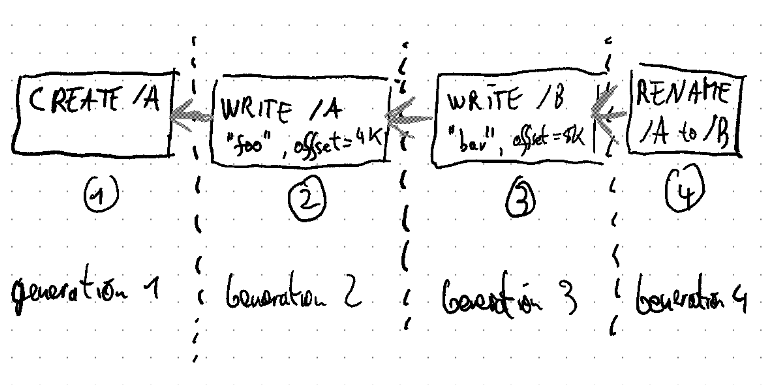
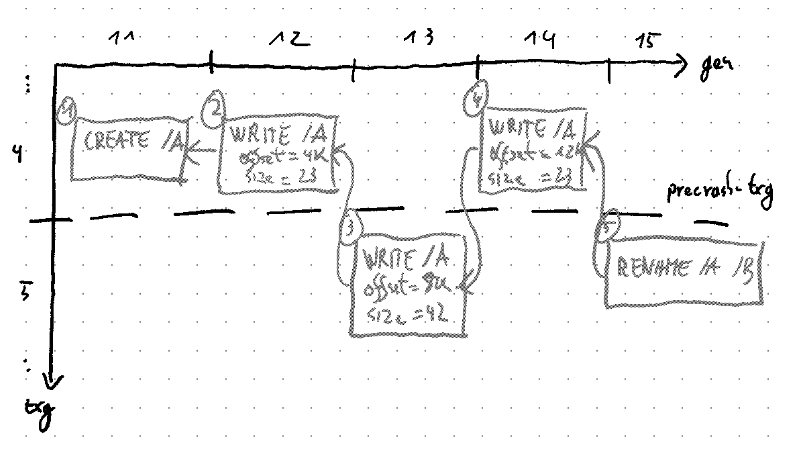
WIP

diff --git a/thesis.tex b/thesis.tex
@@ -29,6 +29,8 @@
 
 \usepackage{listings}
 
+\usepackage{float} % for the [H] option on figures
+
 % for core allocation pseudo-code mostly...
 \usepackage{amsmath}
 \usepackage{algorithmicx}
@@ -1104,201 +1106,128 @@ Updates to VDEV labels continue to be made using block device IO (\lstinline{zio
     }
 \end{figure}
 
+\clearpage
 \section{PRB/HDL}
-In this section we describe the PRB data structure which is at the heart of the ZIL-PMEM design.
-PRB implements a generic logical write-ahead log facility that uses PMEM for persistence.
-A single PRB instance supports multiple logs with independent lifecycles.
-Each log is represented by a HDL object that provides methods for writing and replaying log entries.
-Log entries are opaque to PRB --- the only ZFS-specific metadata is the transaction group (txg) in which the log entry's effect will be synced.
-Knowledge of the entry's txg is necessary for log replay and log entry garbage collection.
-The \textit{zil\_pmem.c} module, which we present in Section~\ref{sec:zilpmem}, acts as a mere integration layer between the remainder of ZFS and PRB.
-
-We present PRB in a top-down manner, starting with the logical structure of a single log in Section~\ref{di:prb:structure}, followed by a walkthrough of the API that PRB exposes towards \lstinline{zil\_pmem.c} (Section~\ref{di:prb:api}).
-Equipped with a black-box understanding of PRB's functionality we proceed with its internal design and implementation.
+In this section we describe the PRB data structure which implements the bulk of ZIL-PMEM's functionality.
+It acts as a resource manager that multiplexes PMEM among many virtual logs (HDLs).
+The \textit{zil\_pmem.c} module (Section~\ref{sec:zilpmem}\todo{chapter}) uses HDLs to implement the ZIL-PMEM ZIL kind.
+%A single PRB instance supports multiple logs with independent lifecycles.
+%Each log is represented by a HDL object that provides methods for writing and replaying log entries.
+%Log entries are opaque to PRB --- the only ZFS-specific metadata is the transaction group (txg) in which the log entry's effect will be synced.
+%Knowledge of the entry's txg is necessary for log replay and log entry garbage collection.
+%The \textit{zil\_pmem.c} module, which we present in Section~\ref{sec:zilpmem}, acts as a mere integration layer between the remainder of ZFS and PRB.
+We present the design and implementation of PRB in a top-down manner.
+In Section~\ref{di:prb:background} we recapitulate the role of the ZIL in ZFS to isolate the requirements that the ZIL-PMEM ZIL kind will impose\todo{verb} on PRB.
+Based on these requirements we develop a model of the log abstraction that PRB exposes through its HDLs (Section~\ref{di:prb:structure}).
+In Section~\ref{di:prb:api} we describe the lifecycle of PRB's abstractions by walking through the API exposed toward \lstinline{zil_pmem.c}.
+Equipped with a black-box understanding of PRB's functionality we proceed with the internal design and implementation.
 In Section~\ref{di:prb:phys} we describe PRB's persistent data structure.
 The design and implementation techniques of the scalability-oriented the write path are presented in Section~\ref{di:prb:write}.
 Finally, Section~\ref{di:prb:recovery} describes\todo{word} the algorithms used on the recovery path (\ref{di:prb:recovery}).
 
+\subsection{Background}\label{di:prb:background}
+Remember from section \ref{openzfs:pool_operation} that whenever a file system operation changes a dataset $D$, it does so in a DMU transaction $T_i$ within a transaction group $T_{i_{txg}}$.
+When a system call handler invokes \lstinline{dmu_tx_commit(T_i)} and subsequently returns to userspace, the logical change $C_i$ that $T_i$ makes is not yet persisted to stable storage.
+Instead, the DMU accumulates the changes from many DMU transactions in DRAM, grouped by the transaction's txg.
+Eventually, the \textit{txg sync} background thread syncs the txg out to the zpool's storage devices.
+It first \textit{quiesces} the currently \textit{open txg} by not admitting new DMU transactions to it and waits for existing DMU transactions to finish.
+Once all DMU transactions have finished, it is guaranteeed that the accumulated dirty state for this txg is not going not change.
+The txg transitions to the \textit{syncing} state and txg sync starts to write out an updated version of the on-disk state.
+After this process is complete, the transaction group is the pool's \textit{last synced} txg.
+Note that there are three unsynced txgs at every given time, one for each of the three states \textit{open}, \textit{quiescing}, and \textit{syncing}.
+This improves DMU transaction latency because it decouples new DMU transactions from the \textit{txg sync} thread:
+new DMU transactions can always operate on the open txg while txg sync only operates on the syncing txg.
 
+The purpose of the ZIL is to bridge the gap between the time at which a DMU transaction $T_i$ is committed and the time at which the changes made by $T_i$ actually reach the main pool through \textit{txg sync}.
+For that purpose, the system call handler encodes the change $C_i$ that was made in $T_i$ as a \textit{log record} and \textit{assigns} it, wrapped in an ITX, to the ZIL.
+If the system call has synchronous semantics, the handler calls \lstinline{zil_commit} before returning to userspace.
+\lstinline{zil_commit} uses the \lstinline{itxg} data structure to determine which log records need to be written out, resulting in a \textit{commit list}.
+At this point, the ZIL-kind specific implementation takes over: it must append the commit list to the previous commit lists and ensure that that this concatened list is persisted to stable storage.
 
-\subsection{Conceptual Model}\label{di:prb:structure}
-The conceptual model for the PRB is a PMEM resource manager that exposes the HDL abstraction.
+After a system crash, the zpool is in the state of the last synced transaction group which we call \textit{precrash-txg}.
+Our dataset $D$ is lacking exactly those changes $C_i$ whose transactions $T_i$ were made in txg $T_{i_{txg}} > \text{precrash-txg}$.
+When $D$ is mounted, the mount procedure calls \lstinline{zil_replay} to apply those changes $C_i$ to $D$.
+The implementation of \lstinline{zil_replay} is specific to each ZIL kind but the API contract is the same:
+the caller provides a callback that the implementation invokes for every log record that represents a missing change.
+The callback interprets the log record and performs a DMU transaction that atomically applies the change to the dataset and records replay progress.
+The invocation order is given by the commit list, but entries for transactions before or in \textit{precrash-txt} must be skipped because the change encoded in them is already part of the dataset state.
 
-The conceptual model for HDL is a logical write-ahead log for a dataset $D$.
-It serves as persistent storage for committed changes to the dataset that have not yet been synced out to the main zpool.
-The log can be opened once and written until it is either destroyed by the log writer or the system crashes.
-After a system crash, the changes that have not yet been persisted to the main pool are applied again through replay.
+\subsection{Model}\label{di:prb:structure}
 
-The unit that is written to the log is the \textit{log entry}.
-A log entry is a logical change $C$ to the dataseet $D$ that was made in a single transaction group $C_{txg}$.
-The consumer of PRB encodes $C$ as an opaque blob and passes it to its HDL's \lstinline{write_entry} method.
+On the write path, ZIL-PMEM will need to append entries to a sequential log that is synchronously persisted to stable storage.
+In the event of a crash, ZIL-PMEM needs to recover the exact subset of log records that represent changes that have not been synced to the main pool.
+Since the log is written on a per-dataset basis but PMEM is treated as a pool-wide shared resource, some abstraction is needed to mediate access to PMEM in a multicore-scalable manner.
 
-PRB requires the log writer to specify the \texit{logical dependencies} of a log entry.
-Logial dependencies are necessary for ordering and correctness during replay.
-For example, if an application creates a file and writes to it, the log entry that encodes the write to the file depends on the log entry that encodes the creation of the file.
-The dependency model that PRB exposes is based on \textit{generations}.
+In our design, PRB assumes the role of this mediator.
+A PRB is set up with many segments of PMEM that are used for storing log data.
+For each dataset, it exposes a virtual log in the form of the HDL abstraction.
+HDLs share the same PMEM space but can be written and replayed independently.
+
+A HDL log can be opened once and written until the system crashes or the log writer destroys it, e.g., because the dataset is being unmounted.
+After a system crash, HDL provides the replay interface described in the previous section: a callback is invoked for exactly those changes that were made after the \textit{precrash-txg}.
+
+The unit that is written to a HDL is the \textit{log entry}.
+A log entry is the representation of a logical change $C_i$ that was made in a DMU transaction $T_i$ within a transaction group $T_{i_{txg}}$.
+The consumer of PRB encodes $C_i$ as an opaque blob and passes it to its HDL's \lstinline{write_entry} method.
+
+The logical structure of a HDL log is that of a sorted sequence of \textbf{generations}.
+When an entry is written, the writer must indicate whether the entry needs to be placed in a new generation.
+Generations encode logical dependencies between log entries.
 Entries within the same generation do not depend on each other.
-But an entry from a newer generation depends on all log entries in all previous generations.
-When an entry is written, the writer must indicate whether the entry should be placed in a new generation or whether the existing \textit{open generation} should be used.
+Entries from newer generations unconditionally depend on all entries in all previous generations.
+The logical dependencies are checked during replay: if an entry $E$ depends on an entry $E'$ that is missing and $E'$'s txg is younger than the precrash-txg, replay stops with an error at entry $E$.
 
-After a system crash, the zpool is in the state of the last synced transaction group, the \textit{precrash-txg}.
-The changes that need to be applied to the dataset $D$ are exactly those changes $C_i$ for which $C_i_{txg} > \text{precrash-txg}$ holds true.
-%We store $C_i_{txg}$ in the metadata of the entry $E_i$ that represents change $C_i$.
-To apply those changes, the PRB consumer provides the value of precrash-txg and a callback to the \textit{replay algorithm}.
-The replay algorithm determines the set of $C_i$ that need to be replayed and determines a replay sequence that respects the entries' logical dependencies.
-It then invokes the callback for each entry in the replay sequence.
-The callback must perform the following steps in an atomic DMU transaction for each unapplied entry $E$.
-\begin{enumerate}[noitemsep]
-    \item Apply the change that the log writer encoded encoded in the entry to the dataset.
-    \item Record replay progress by updating the ZIL header to an opaque value provided by the replay algorithm.
-\end{enumerate}
-Recording replay progress has two advantages.
-First, it makes replay crash consistent. If the system crashes during replay, and replay is retried after reboot, the replay algorithm skips entries that have already been applied based on the progress information.
-Second, the types of changes that can be encoded in the log need not be idempotent because each change is only applied once.
+To structure the HDL log as a fully sequential list, as required by the ZIL's \textit{commit list} model, a new generation must be started for every entry.
+However, the inherent sequentiality of the \textit{commit list} model presents an unnecessary scalability bottleneck.
+For example, if multiple threads modify the same file simultaneously, their modifications cannot be causally dependent and could therefore be logged in parallel without coordination.
+HDL addresses this problem by allowing log entries for the same generation to be written in parallel.
+We present an application of parallel logging to ZVOLs in Section~\ref{sec:itxgbypass}.
+Our evaluation in Section~\ref{ch:eval}\todo{precise} demonstrates that significant speedups are possible without weakening crash consistency guarantees.
 
-We visualize the logical log structure that the replay algorithm operates on as a two-dimensional grid.
-Entries are placed in the grid according to the their generation (x-axis) and transaction group (y-axis).
-TOOD
+We provide an example of the HDL's structure and the effect that generations have on replay in Figure~\ref{fig:prb_logical_structure}.
 
-Specifying dependencies through generations results in a list-like structure.
-When starting a new generation for every entry, the structure is a chain of sequentially dependent entries.
-Figure~\ref{fig:prb_logical_structure:seqchain} shows an example for such a structure.
-When writing multiple entries without starting a new generation, the result is still a chain albeit with multiple entries in each segment.
-When visualized as a dependency graph, the generations with multiple entries have a diamond shape.
-Hence we refer to such log structures as \textit{diamond chains}.
-We provide an example in Figure~\ref{fig:prb_logical_structure:diamondchain}.
-
-Note that the purpose of diamond chains is to allow multilpe threads to write log entries to the same log in parallel.
-If the storage hardware can maintain low latency, writing the entries in parallel improves the system's overall scalability.
-We present an application of diamond chains to ZVOLs in Section~\ref{sec:itxgbypass} and show their performance benefits in our evaluation in Section~\ref{ch:eval}\todo{precise}.
-
-\begin{figure}[h]
+\begin{figure}[H]
     \begin{subfigure}{\textwidth}
+        \centering
         \includegraphics[height=5cm]{fig/prb_logical_structure__seqchain}
-        \caption{Each entry was written to a new generation.}
+        \caption{
+            Each entry was written to a new generation, resulting in a sequence of dependent entries.
+            However, only entries 3 and 5 must be replayed.
+            If entries 1, 2, and 4 were missing, replay would still succeed.
+        }
         \label{fig:prb_logical_structure:seqchain}
     \end{subfigure}
     \begin{subfigure}{\textwidth}
+        \centering
         \includegraphics[height=5cm]{fig/prb_logical_structure__diamondchain}
-        \caption{Entry \#3 was written without starting a new generation.}
+        \caption{
+            Entries 2 and 3 were written in the same generation.
+            Entry 4 was written in the next generation and thus logically depends on both entries 2 and 3.
+            However, only entries 3 and 5 must be replayed.
+            If entries 1, 2, and 4 were missing, replay would still succeed.
+            }
         \label{fig:prb_logical_structure:diamondchain}
     \end{subfigure}
-    \caption{An example for the logical structure of a single HDL's log. Both variants contain the same entries but the dependency structure differs due to different generation assignments.}
+    \begin{subfigure}{\textwidth}
+        \centering
+        \includegraphics[height=5cm]{fig/prb_logical_structure__diamondchain2}
+        \caption{
+            The same situation as in Figure~\ref{fig:prb_logical_structure:diamondchain} but entry 4 was written after the precrash-txg.
+            Entries 3, 4 and 5 must be replayed.
+            If entry 2 is missing, replay would still succeed despite entry 4's dependency on entry 2 because entry 2's effect has already been committed as part of precrash-txg.
+            }
+        \label{fig:prb_logical_structure:diamondchain2}
+    \end{subfigure}
+    \caption{
+        We visualize the logical log structure as a two-dimensional grid.
+        Entries are placed in the grid according to the their generation (x-axis) and transaction group (y-axis).
+        The logical dependencies that the log writer expresses through generations are represented as gray directed edges between the entries.
+        The \textit{precrash-txg} is represented as a horizontal line.
+        The changes in entries above the horizontal line are already applied to the zpool and must not be replayed.
+        The changes below the horizontal line need to be replayed.
+    }
     \label{fig:prb_logical_structure}
 \end{figure}
-
-
-
-
-During replay, PRB guarantees that an entry $E$ is only replayed if all of the changes encoded in the entries that $E$ logically depends on have already been applied to $D$.
-
-Such logical 
-When an entry is written, the writer provides entry's transaction group $C_{txg}$ and indicate whether the entry should be placed in a new generation.
-During replay, this information is sufficient to answer the question whether all changes that an entry an entry's dependencies change  has been applied.
-
-
-An entry $E$ logically depends on 
-
-
-If $E$ depends on a change in another entry $E'$ that is missing and younger than \textit{precrash-txg}, replay fails with an error that identifies $E$ as the \textit{offending entry}.\textit{language?}
-
-This information in addition to the \textit{precrash-txg} is sufficent to determine whether an entry's can be replayed.
-
-The simplest log structure that  is a chain of entries where each entry depends on its predecessor.
-To produce such a structure the log writer starts a new generation every time it writes a log entry.
-Figure~\ref{fig:prb_logical_structure:seqchain} visualizes such a sequential chain.
-
-An entry that does not logically depend on the other entries in the open generation can be written without starting a new generation.
-When visualizing the resulting log as a dependency graph, generations with multiple entries have the shape of a diamond.
-Hence we refer to such log structures as \textit{diamond chains}.
-We provide an example in Figure~\ref{fig:prb_logical_structure:diamondchain}.
-
-
-If an entry can not be replayed, replay fails with an error that identifies the entry whose dependencies are missing as the \textit{offending entry}.
-
-
-needs to  should 
-The only metadata that PRB requires when writing an entry is is the transaction group $C_{txg}$ in which the logical its logical change was made.
- and an indication whether a new \textit{generation} needs to be started for the entry.
-Generations are PRB's concept to express logical dependencies between entries.
-Dependencies are critical for replay correctness.
-
-only entries whose dependencies are either alreadhave been replayed and that an entry will not be replayed if its  it depends on one or more missing entries.
-
-
-
-
-The replay algorithm takes as inputs a callback and the last transaction group that was successfully synced to the zpool before the system crashed (:=\~\textit{precrash-txg}).
-The callback is invoked for exactly those log entries that have been successfully committed to PRB but not synced to the zpool before the system crashed.
-It is the callback's responsibility to atomically apply the change encoded in the log entry and to record replay progress in the zpool.
-
-
-
-
-
-Generations are the concept to express logical dependencies between entries.
-If an entry is missing during 
-Entries within the same generation do not depend on each other.
-But an entry from a later generation depends on all log entries in all previous generations.
-The replay algorithm respects these dependencies when determining the replay order and refuses to replay an entry if one or more of its dependencies is missing, e.g., due to data corruption.
-
-PRB takes care of crash consistency, data integrity, scalability on the write path, and correct replay on the recovery path.
-
-
- log that PRB consumers write through a HDL is that of a \textbf{sequence of generations of log entries}.
-\begin{description}
-    \item[Log Entry] A log entry describes a change $C$ to the zpool state that will be synced to disk in a certain transaction group $C_{txg}$
-        The consumer of PRB encodes $C$ as an opaque blob $LR(C)$ and writes it to the PRB using a method on its HDL.
-        The only metadata required is $C_{txg}$ and an indication whether the entry should start a new generation or whether it should be added to the currently open generation.
-    \item[Generation] Generations are used to express logical dependencies between entries.
-        Entries within the same generation do not depend on each other.
-        But an entry from a later generation depends on all log entries in all previous generations.
-        The replay algorithm respects these dependencies when determining the replay order and refuses to replay an entry if one or more of its dependencies is missing, e.g., due to data corruption.
-    \item[Sequence] The log is a sequence of generations.
-        Entries can only be added to the most recent generation.
-        It is referred to as the \textit{open generation}.
-\end{description}
-The simplest log structure is a chain of entries where each entry depends on its predecessor.
-To produce such a structure the log writer starts a new generation every time it writes a log entry.
-Figure~\ref{fig:prb_logical_structure:seqchain} visualizes such a sequential chain.
-
-An entry that does not logically depend on the other entries in the open generation can be written without starting a new generation.
-When visualizing the resulting log as a dependency graph, generations with multiple entries have the shape of a diamond.
-Hence we refer to such log structures as \textit{diamond chains}.
-We provide an example in Figure~\ref{fig:prb_logical_structure:diamondchain}.
-
-\begin{figure}[h]
-    \begin{subfigure}{\textwidth}
-        \includegraphics[height=5cm]{fig/prb_logical_structure__seqchain}
-        \caption{Each entry was written to a new generation.}
-        \label{fig:prb_logical_structure:seqchain}
-    \end{subfigure}
-    \begin{subfigure}{\textwidth}
-        \includegraphics[height=5cm]{fig/prb_logical_structure__diamondchain}
-        \caption{Entry \#3 was written without starting a new generation.}
-        \label{fig:prb_logical_structure:diamondchain}
-    \end{subfigure}
-    \caption{An example for the logical structure of a single HDL's log. Both variants contain the same entries but the dependency structure differs due to different generation assignments.}
-    \label{fig:prb_logical_structure}
-\end{figure}
-
-The purpose of diamond chains is to allow multilpe threads to write log entries to the same log in parallel.
-For example, if a file is written simultaneously by two different threads, the write operations cannot be logically interdependent.
-Consequently, the log entries for these writes can be placed into the same generation.
-If the storage hardware can maintain low latency, writing the entries in parallel improves the system's scalability.
-
-After a system crash the log chain can be replayed.
-The replay algorithm takes as inputs a callback and the last transaction group that was successfully synced to the zpool before the system crashed (:=\~\textit{precrash-txg}).
-The callback is invoked for exactly those log entries that have been successfully committed to PRB but not synced to the zpool before the system crashed.
-The invocations happen sequentially in a deterministic order that respects the logical dependencies expressed through the generations.
-It is the callback's responsibility to atomically apply the change encoded in the log entry and to record replay progress in the zpool.
-
-PRB does not require log entries to be idempotent % thus the "exactly" in the previous paragraph.
-which has two critical implications for replay:
-First, replay progress must be recorded atomically with the application of the change.
-We have already described above how we delegate this responsibility to the callback.
-Second, PRB must ensure that only entries from txgs younger than the precrash-txg are replayed since entries for txgs older or in in the precrash-txg are already part of the synced out state.
-We solve this problem by filtering out entries that were written for txgs before or equal to the precrash-txg, using the metadata provided by the log writer.
 
 %Note that a fully sequential chain of entries is sufficient for today's ZIL since the commit list assembled by the ITX code\todo{ref} is already sequential.
 %However, as pointed out by the example in the previous paragraph, full sequentiality is not always semantically necessary.
@@ -1306,21 +1235,14 @@ We solve this problem by filtering out entries that were written for txgs before
 %We interpret these findings as indicators that ZIL-PMEM --- and thus PRB --- should support parallelism on the write path in the form of diamond chains.
 %We present an application of diamond chains to ZVOLs in Section~\ref{sec:itxgbypass} and evaluate it in Section~\ref{ch:eval}\todo{precise}.
 
-
-
-
 %A generation is identified by its \textit{generation number} which is positive integer.
 %An entry is always associated with exactly one generation but a generation can contain many entries.
 %Entries within the same generation are identified through an \textit{id field} which is a positive integer.
 %Given entries $a$ and $b$, $a \text{depends on} b \Leftrightarrow a.gen > b.gen$ where $x.gen$ denotes the generation of entry $x$.
 
-% entries
-% generations
-% 
-
 \subsection{API Overview}\label{di:prb:api} % API Overview?
 PRB exposes an API that implements the conceptual model presented in the previous section.
-
+In this subsection we provide a walkthrough of that API to illustrate the lifecycle of the PRB and HDL.
 
 \subsubsection{PRB Setup}\label{di:prb:api:setup}
 
@@ -1444,8 +1366,17 @@ zilpmem_prb_replay_read_replay_node(
 
 After we have completed claiming we can replay individual logs using \lstinline{zilpmem_prb_replay}.
 It invokes the \lstinline{zilpmem_replay_cb_t} callback for each log entry that needs to be replayed.
-The callback is responsible for loading the log entry's body from PMEM and for executing a DMU transaction in which the log entry's effect is applied and the ZIL header updated to the value of \lstinline{upd}.
-The callback does not access PMEM directly but uses the \lstinline{zilpmem_prb_replay_read_replay_node} function instead.
+The callback must perform the following steps in an atomic DMU transaction:
+\begin{enumerate}[noitemsep]
+    \item Apply the change that the log writer encoded in the entry to the dataset.
+    \item Record replay progress by updating the ZIL header to the value as a second argument.
+\end{enumerate}
+Recording replay progress has two advantages.
+First, it makes replay crash consistent.
+If the system crashes during replay, and replay is retried after reboot, the replay algorithm skips entries that have already been applied based on the progress information.
+Second, the types of changes that can be encoded in the log need not be idempotent because each change is only applied once.
+
+The callback does not access PMEM directly to access the log entry but uses the \lstinline{zilpmem_prb_replay_read_replay_node} function instead.
 The function handles machine-check exceptions (MCEs) and validates the PRB-managed body checksum.
 
 \lstinline{zilpmem_prb_replay} can fail either due to an error in the callback or due to missing log entries.
